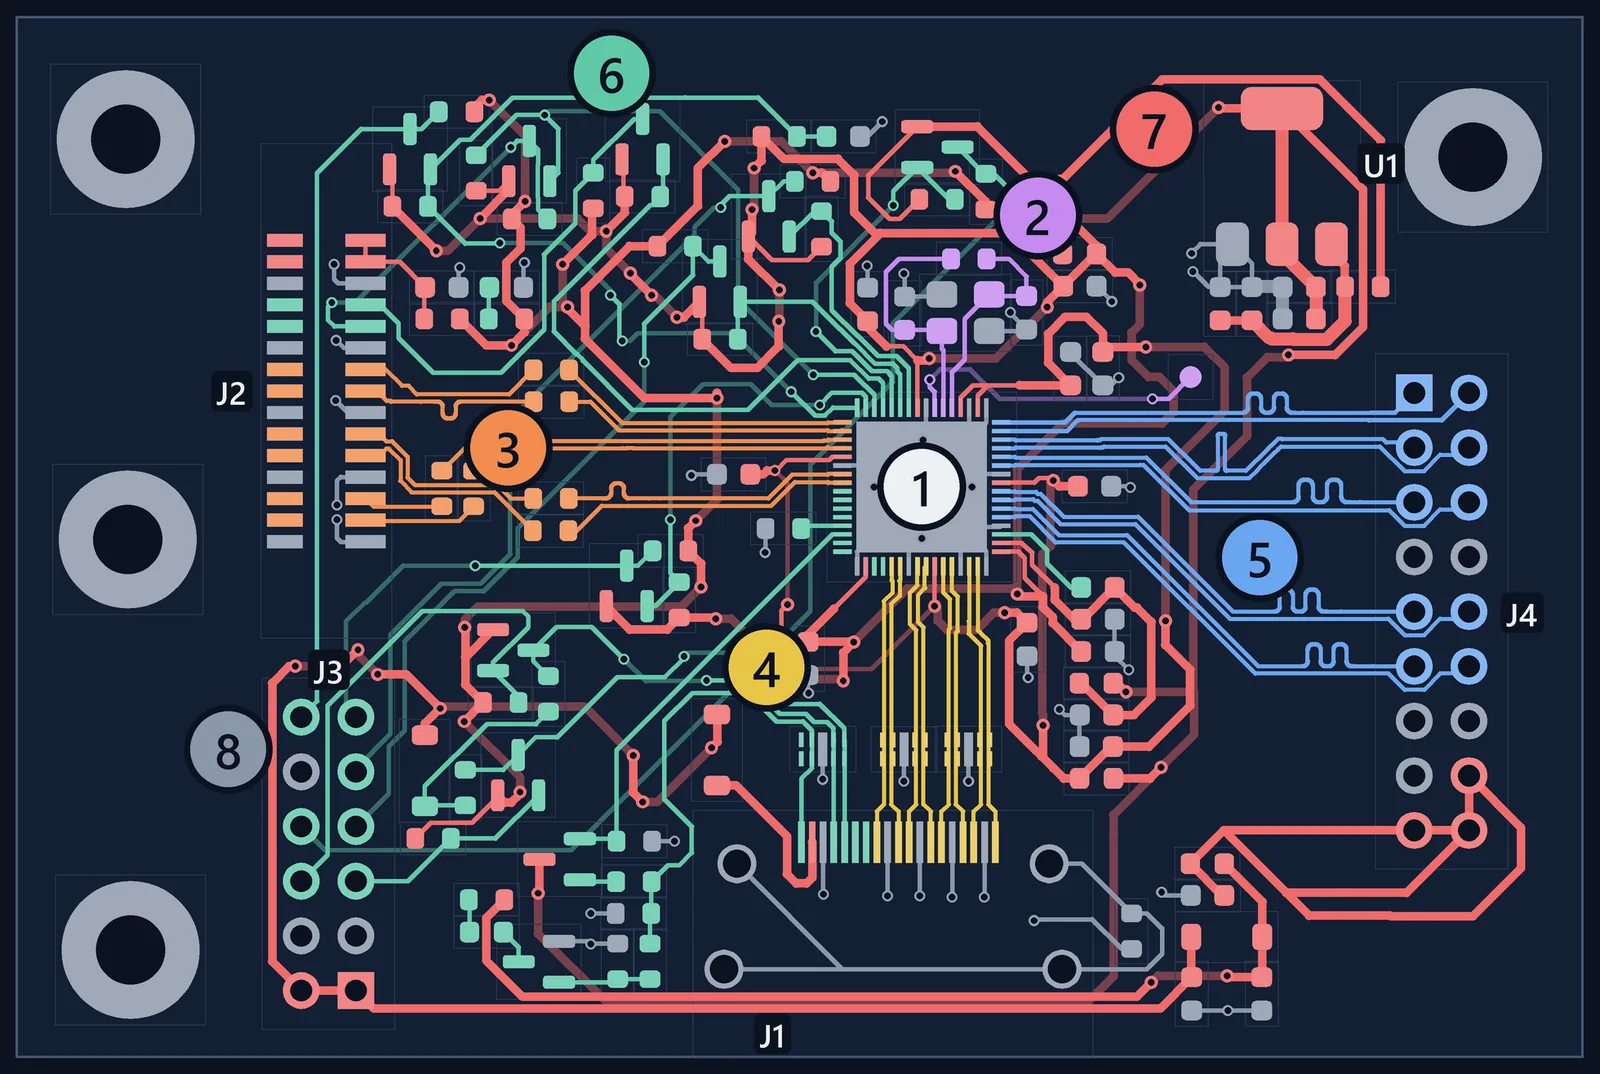
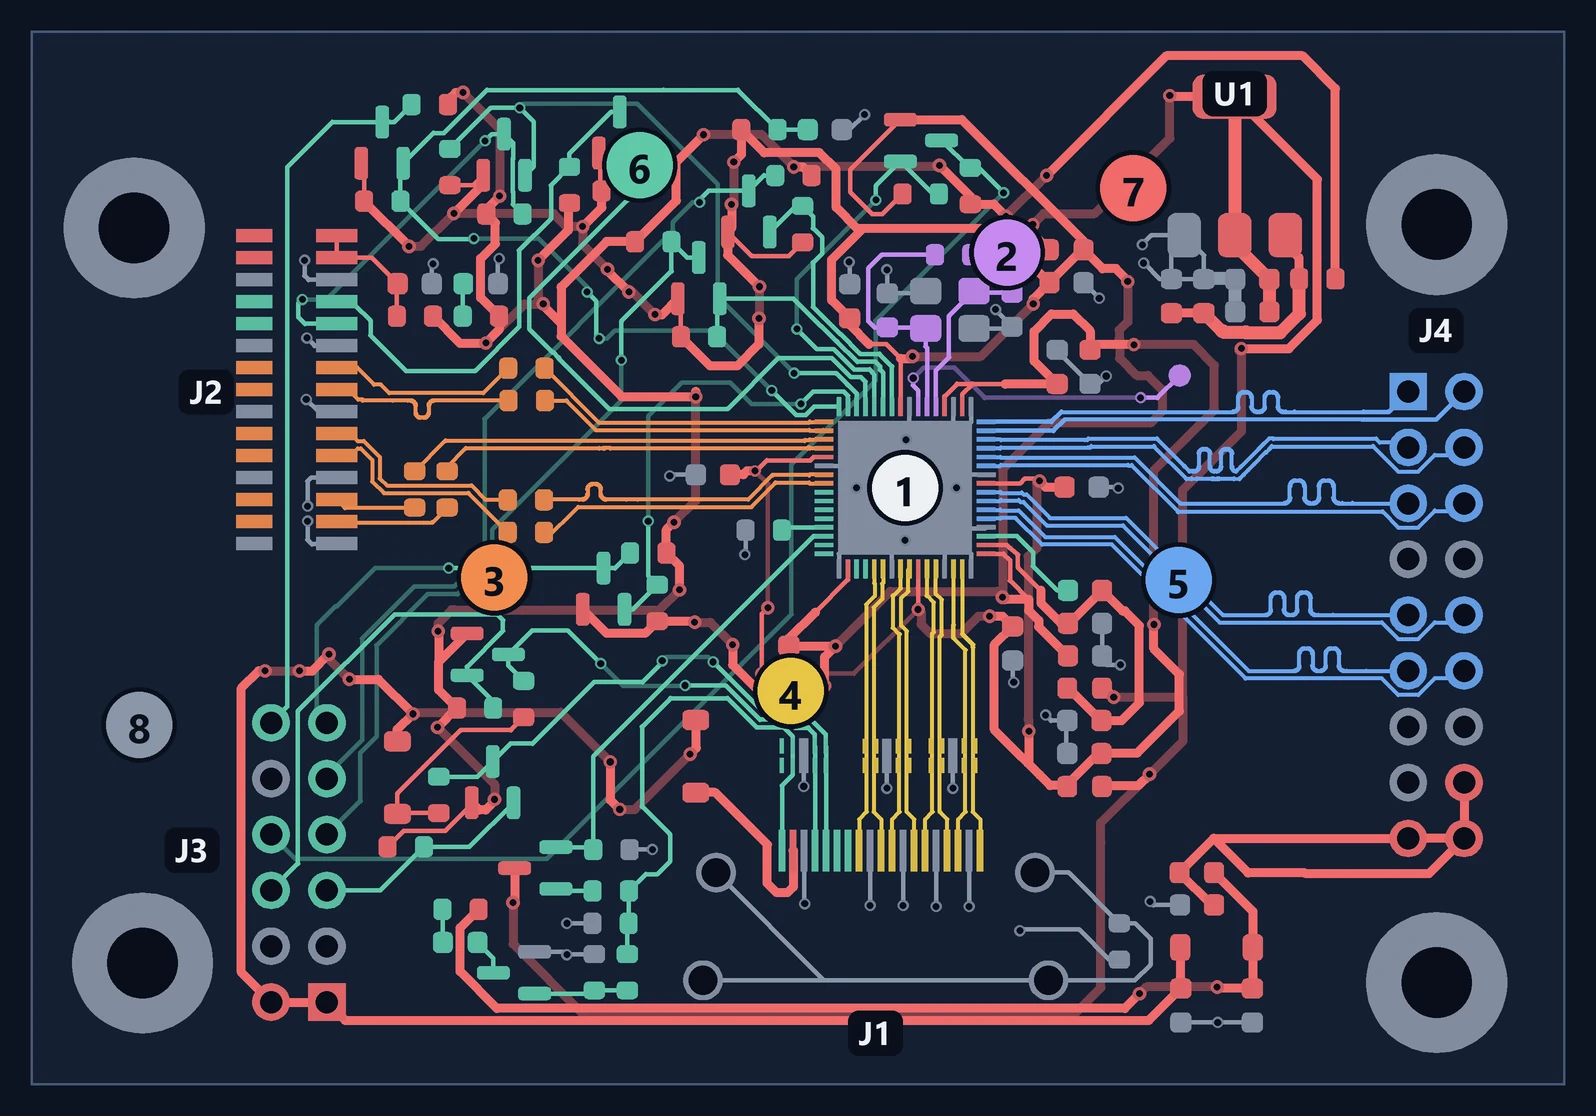
Bridge board: redraw the gallery from the final 19 Oct board
The board map and the MIPI and LVDS close-ups came from the 16 Oct report
deck, before the D1 re-tune, the silkscreen cleanup and the trimmed outline.
The Gerber-viewer screenshot showed the 16 Oct Gerbers. All four are now
drawn from the final deliverable (_site_tools/hdmi_geometry.py +
hdmi_figures.py), and the Gerber shot is replaced by an HDMI pair close-up.

diff --git a/index.html b/index.html
@@ -231,20 +231,20 @@
         <p class="gallery-label"><span lang="en">HDMI/LVDS bridge</span><span lang="ko">HDMI/LVDS 브리지</span></p>
         <div class="gallery">
           <figure>
-            <button class="shot" type="button"><img src="assets/img/pcb-map.webp" width="1600" height="1074" loading="lazy" alt="Board map with nets coloured by block and numbered in the order they were placed and routed"></button>
+            <button class="shot" type="button"><img src="assets/img/pcb-map.webp" width="1596" height="1116" loading="lazy" alt="Map of the final board with nets coloured by block and numbered in the order they were placed and routed"></button>
             <figcaption><span lang="en">Built inside out from the bridge chip: 1 chip · 2 crystal · 3 MIPI in · 4 HDMI out · 5 LVDS out · 6 level shifters · 7 power · 8 ground</span><span lang="ko">브리지 칩에서 바깥쪽으로 진행한 순서: 1 칩 · 2 크리스털 · 3 MIPI 입력 · 4 HDMI 출력 · 5 LVDS 출력 · 6 레벨 시프터 · 7 전원 · 8 GND</span></figcaption>
           </figure>
           <figure>
-            <button class="shot" type="button"><img src="assets/img/pcb-mipi.webp" width="1600" height="645" loading="lazy" alt="Close-up of the MIPI lanes: the clock pair passing between the pads of the D1 zero-ohm links"></button>
+            <button class="shot" type="button"><img src="assets/img/pcb-mipi.webp" width="1600" height="588" loading="lazy" alt="Close-up of the MIPI lanes: the clock pair passing between the pads of the D1 zero-ohm links"></button>
             <figcaption><span lang="en">The MIPI clock pair passes between the pads of lane D1's 0 Ω links, so the crossing needs no via</span><span lang="ko">MIPI 클럭 페어가 D1 레인 0 Ω 링크의 패드 사이를 지나, 교차 구간에도 비아가 없음</span></figcaption>
           </figure>
           <figure>
-            <button class="shot" type="button"><img src="assets/img/pcb-lvds.webp" width="926" height="804" loading="lazy" alt="LVDS pairs entering the 2 by 9 header, with serpentine length-matching bumps on one line of each pair"></button>
-            <figcaption><span lang="en">LVDS pairs into the 2.54 mm header: bumps on the N lines make up for the P lines' detour</span><span lang="ko">2.54 mm 헤더로 들어가는 LVDS 페어: P 라인이 돌아가는 길이를 N 라인의 미앤더로 보상</span></figcaption>
+            <button class="shot" type="button"><img src="assets/img/pcb-hdmi-tmds.webp" width="1050" height="1580" loading="lazy" alt="Close-up of the four HDMI pairs running from the bridge chip through two ESD arrays to the HDMI connector pads"></button>
+            <figcaption><span lang="en">HDMI: the four TMDS pairs run straight down from the chip, through two ESD arrays, to the connector</span><span lang="ko">HDMI: TMDS 4쌍이 칩에서 ESD 보호 소자 2개를 지나 커넥터까지 곧게 내려감</span></figcaption>
           </figure>
           <figure>
-            <button class="shot" type="button"><img src="assets/img/pcb-gerber.webp" width="1600" height="825" loading="lazy" alt="Ucamco reference Gerber viewer showing the board and its list of layers"></button>
-            <figcaption><span lang="en">The exported Gerbers in Ucamco's reference viewer: all 11 layers read as Gerber X2</span><span lang="ko">Ucamco 레퍼런스 뷰어로 확인한 거버 파일: 11개 층 모두 Gerber X2로 인식</span></figcaption>
+            <button class="shot" type="button"><img src="assets/img/pcb-lvds.webp" width="1600" height="966" loading="lazy" alt="Five LVDS pairs running from the bridge chip into the 2 by 9 header, with length-matching bumps on one line of each pair"></button>
+            <figcaption><span lang="en">LVDS pairs into the 2.54 mm header: bumps on the N lines make up for the P lines' detour</span><span lang="ko">2.54 mm 헤더로 들어가는 LVDS 페어: P 라인이 돌아가는 길이를 N 라인의 미앤더로 보상</span></figcaption>
           </figure>
         </div>
 
